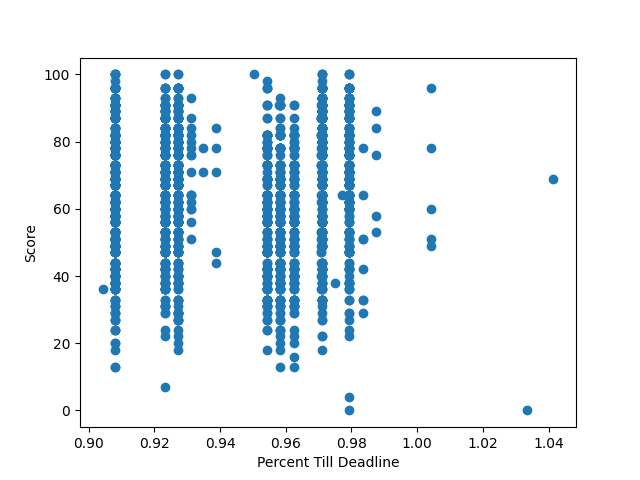
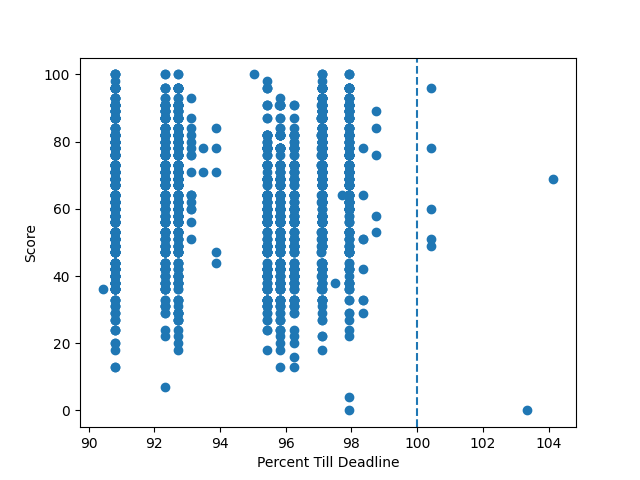
minor plot fixes

diff --git a/src/scores.py b/src/scores.py
@@ -146,7 +146,7 @@ def top_level_analysis():
     student_assessment_and_assessment_info = pd.merge(
         student_assessment, assessment, how="inner", on="id_assessment"
     )
-    student_assessment_and_assessment_info["perc_till_deadline"] = (
+    student_assessment_and_assessment_info["perc_till_deadline"] = 100.0 * (
         student_assessment_and_assessment_info["date_submitted"]
         / student_assessment_and_assessment_info["date"]
     )
@@ -163,6 +163,7 @@ def top_level_analysis():
     )
     plt.xlabel("Percent Till Deadline")
     plt.ylabel("Score")
+    plt.axvline(100.0, linestyle='--', color='black')
     plt.title("Student Scores Compared with\nRelative Submission Time")
     plt.savefig(
         os.path.join(PLOTS_FOLDER, "student_perc_till_deadline_and_performance.png")
@@ -253,7 +254,6 @@ def lower_level_analysis():
     )
     plt.clf()
 
-    # Joins all student scores with the region information
     student_scores_and_ages = student_scores_and_info[["age_band", "score"]]
 
     # Consolidate regional score into mean
@@ -280,7 +280,7 @@ def lower_level_analysis():
 
     # leaving this code here.. but plot not too useful
 
-    student_exam_assessment["perc_till_deadline"] = (
+    student_exam_assessment["perc_till_deadline"] = 100.0 * (
         student_exam_assessment["date_submitted"] / student_exam_assessment["date"]
     )
 
@@ -294,6 +294,7 @@ def lower_level_analysis():
         student_exam_assessment["perc_till_deadline"].to_numpy(),
         student_exam_assessment["score"].to_numpy(),
     )
+    plt.axvline(100.0, linestyle="--")
     plt.xlabel("Percent Till Deadline")
     plt.ylabel("Score")
     plt.savefig(
